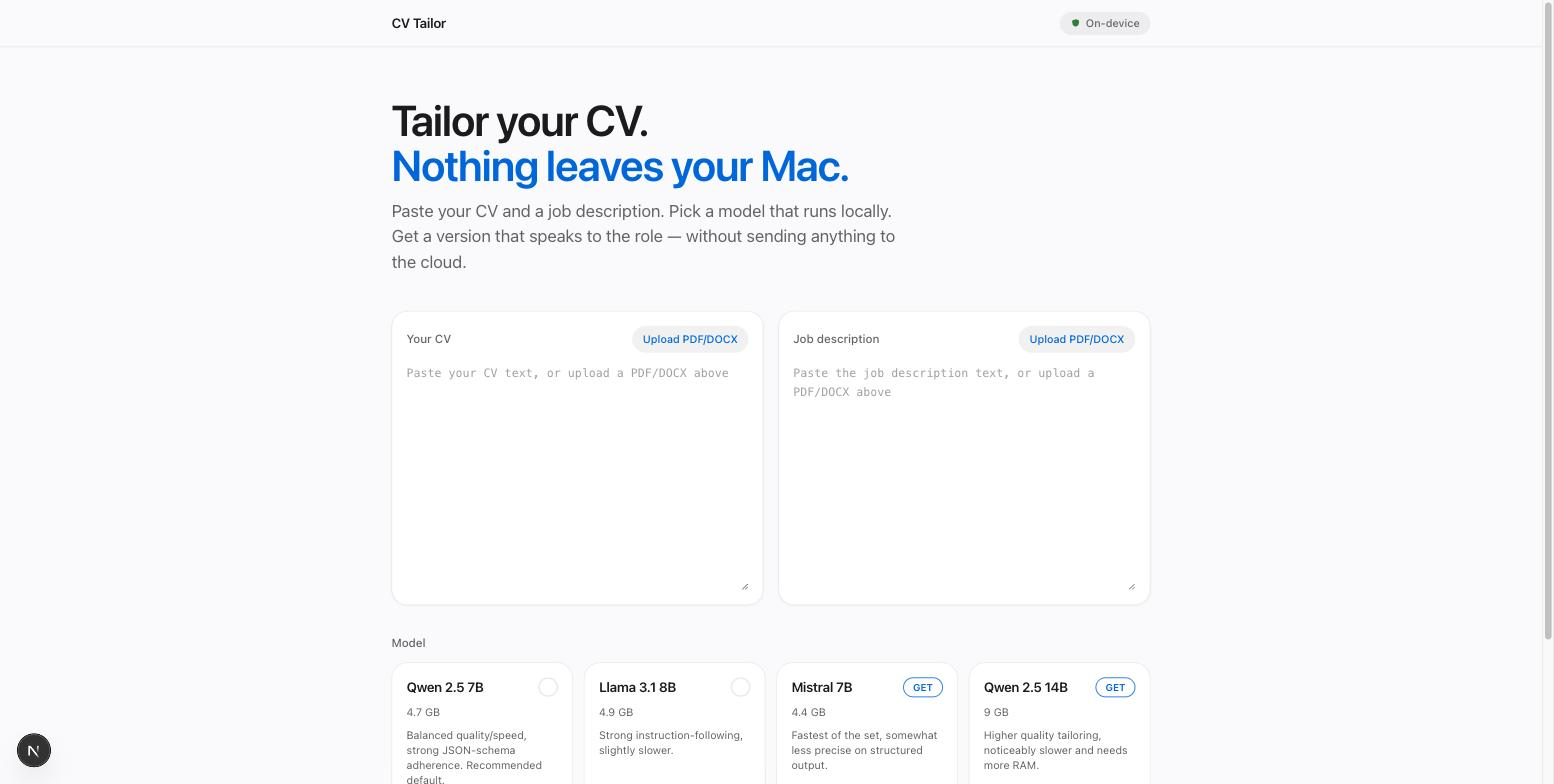
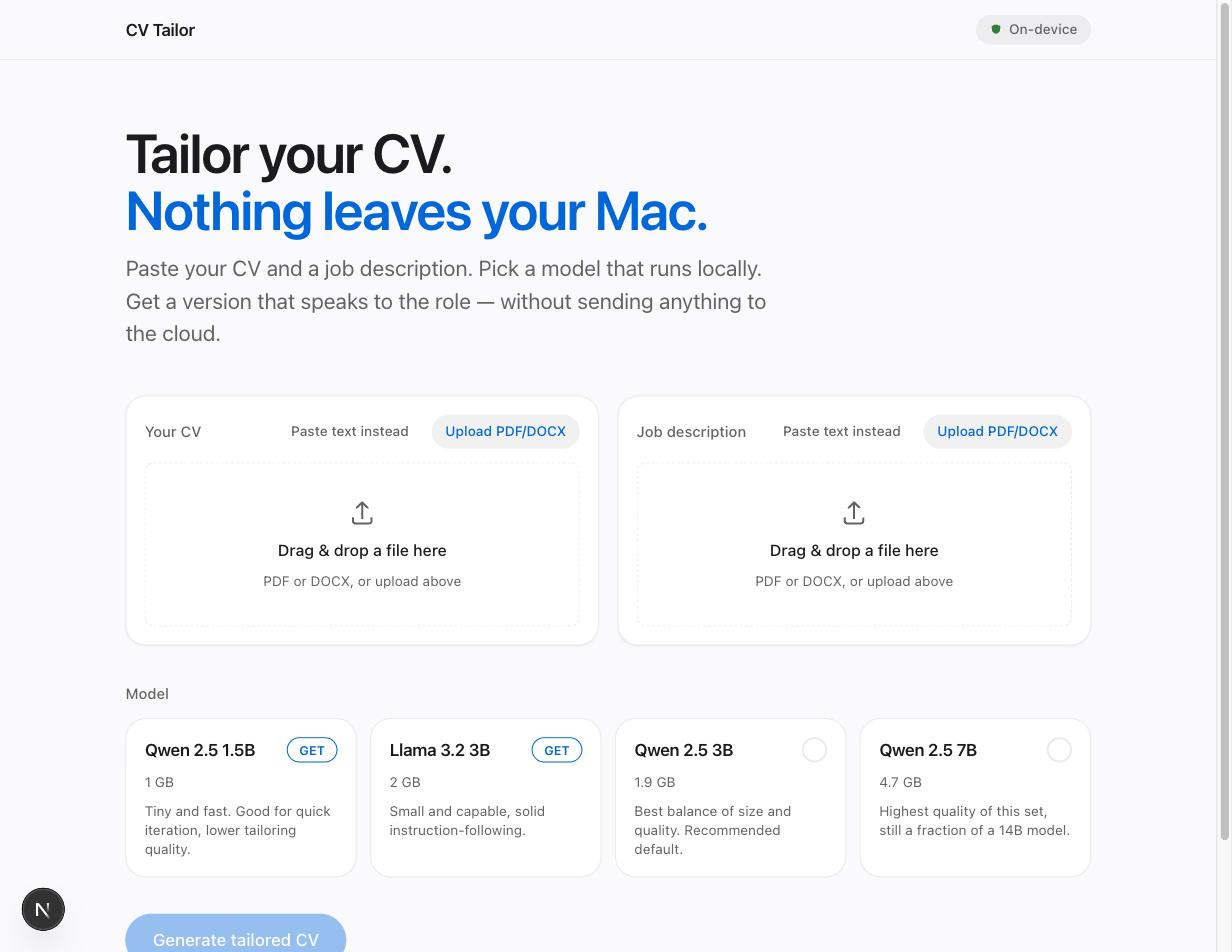
Refresh README screenshots, add model-choice and cleanup docs
- Recaptured all three screenshots against the current UI (drop-zone
  default, smaller boxes, new model lineup, new logo).
- Added a "Choosing a model" section keyed to system RAM.
- Added a "Cleaning up" section: removing just this app's models,
  removing all Ollama models, and fully uninstalling Ollama on macOS.
  Verified the removal one-liner against real `ollama list` output.
- Fixed a real bug the first screenshot attempt surfaced: qwen2.5:3b
  fabricated a LinkedIn URL not present in the source CV and
  concatenated the company name into the `role` field. The prompt now
  explicitly forbids inventing contact details and requires each
  field to hold only what it's for. Re-verified clean output before
  using the screenshot.
- Recorded all of the above, plus the previously-unlogged drop-zone
  default UX, input box resize, and generation progress bar, in the
  changelog.

Claude-Session: https://claude.ai/code/session_01Mngo3P2hUKLcYtx7qNYbHx

diff --git a/lib/llm.ts b/lib/llm.ts
@@ -10,6 +10,7 @@ Truthfulness:
 - Do not invent experience, employers, titles, dates, metrics, or skills the candidate does not have. Only reorder, re-emphasize, rephrase, and select from what's in the source CV.
 - Never invent a number. Only quantify a bullet (%, $, counts, time saved) if the source CV already states or clearly implies that figure.
 - Never move an achievement bullet to a different employer than the one it appears under in the source CV. Rephrasing a bullet must not change which job it belongs to, and must not add a technology or detail the source didn't mention for that job.
+- Never invent contact details. Copy email, phone, location, and links (e.g. LinkedIn, GitHub, a portfolio site) verbatim from the source CV only if present; if the source CV doesn't include one, leave it empty. Do not guess a URL from the candidate's name.
 
 Keyword and skill matching:
 - Reorder and rewrite the skills list and experience bullets to foreground what's most relevant to the job description.
@@ -23,6 +24,7 @@ Writing quality:
 - Order experience bullets within each role by relevance to the job description, most relevant first.
 
 Formatting:
+- Keep each field to only what it's for: "role" is the job title alone (never the company or dates appended to it), "company" is the employer name alone. Don't concatenate fields together.
 - Leave a field as an empty string or empty array if the source CV has nothing for it.
 - Output must be valid JSON matching the schema exactly — no markdown, no commentary.`;
 

diff --git a/README.md b/README.md
@@ -32,6 +32,18 @@ There's no agent loop, no tool-calling, no multi-step pipeline — just one prom
 
 You don't need to pre-pull a model — the model picker in the UI lists a few curated, small-footprint options (Qwen 2.5 1.5B/3B/7B, Llama 3.2 3B — 1GB to 4.7GB) and downloads whichever one you pick, with a progress indicator, the first time you select it.
 
+### Choosing a model
+
+Local models need roughly their own size in RAM to run comfortably, on top of whatever your OS and other apps are already using. As a rule of thumb, based on your machine's total RAM:
+
+| RAM   | Recommended                 | Notes                                                           |
+| ----- | --------------------------- | --------------------------------------------------------------- |
+| 8GB   | Qwen 2.5 1.5B               | Leaves headroom for everything else running                     |
+| 16GB  | Qwen 2.5 3B or Llama 3.2 3B | Comfortable; Qwen 2.5 7B will work but is tight                 |
+| 32GB+ | Qwen 2.5 7B                 | The highest-quality option in this app, runs with room to spare |
+
+Apple Silicon (M-series) Macs handle all four options well thanks to fast unified memory; on Intel Macs or slower GPUs, expect generation to take noticeably longer regardless of size. If you have the RAM and want a bigger model than the curated list offers, `ollama pull` any model yourself and add it to the list in `lib/models.ts`.
+
 ## Getting started
 
 ```bash
@@ -44,6 +56,32 @@ Open [http://localhost:3000](http://localhost:3000) (or whatever port the dev se
 ## Tech stack
 
 Next.js (App Router) · TypeScript · Tailwind CSS · Ollama · Zod · `docx` · `pdfmake` · `unpdf` · `mammoth`
+
+## Cleaning up
+
+The app itself is just a Node project — deleting the `cv-tailor` folder removes it entirely. The models it downloaded live in Ollama's own data directory, separate from the app, so they need their own cleanup:
+
+**Remove just the models this app pulled** (keeps Ollama installed for other uses):
+
+```bash
+ollama list                 # see what's installed
+ollama rm qwen2.5:1.5b      # remove one by name
+ollama rm llama3.2:3b qwen2.5:3b qwen2.5:7b   # or several at once
+```
+
+**Remove every model Ollama has** (still keeps Ollama itself installed):
+
+```bash
+ollama list | tail -n +2 | awk '{print $1}' | xargs -n1 ollama rm
+```
+
+**Uninstall Ollama entirely** (macOS, if you don't need it for anything else): quit it from the menu bar, then:
+
+```bash
+sudo rm -rf /Applications/Ollama.app
+rm -rf ~/.ollama                                              # models + config, can be tens of GB
+rm -rf ~/Library/Application\ Support/Ollama
+```
 
 ## Changelog
 

diff --git a/CHANGELOG.md b/CHANGELOG.md
@@ -9,10 +9,18 @@ The format is based on [Keep a Changelog](https://keepachangelog.com/en/1.1.0/).
 ### Added
 
 - Real drag-and-drop file upload for the CV and job description cards, with a dashed-border drop overlay and a persistent hint so the affordance is discoverable without dragging first. Unsupported file types are rejected client-side with a clear message.
+- Each input card now defaults to a drop zone instead of an empty text box, with a "Paste text instead" toggle and a "Clear" button to revert.
+- A trickle-style progress bar during CV generation (Ollama reports no incremental progress for a single completion, so this eases toward ~90% on a curve tuned to typical generation time rather than faking a real percentage).
+- README: a "Choosing a model" guide keyed to system RAM, and a "Cleaning up" section covering how to remove downloaded models and uninstall Ollama.
 
 ### Changed
 
 - Swapped the curated model list for smaller options: Qwen 2.5 1.5B/3B/7B and Llama 3.2 3B (1GB–4.7GB), replacing Llama 3.1 8B, Mistral 7B, and Qwen 2.5 14B (4.4GB–9GB).
+- Shrunk the CV/JD input boxes by 40%.
+
+### Fixed
+
+- Smaller models (first observed with Qwen 2.5 3B) would occasionally invent a contact link (e.g. a LinkedIn URL) not present in the source CV, or concatenate the company name into the `role` field. The prompt now explicitly forbids inventing contact details and requires each field to hold only what it's for.
 
 ## [0.1.0] - 2026-09-01
 
